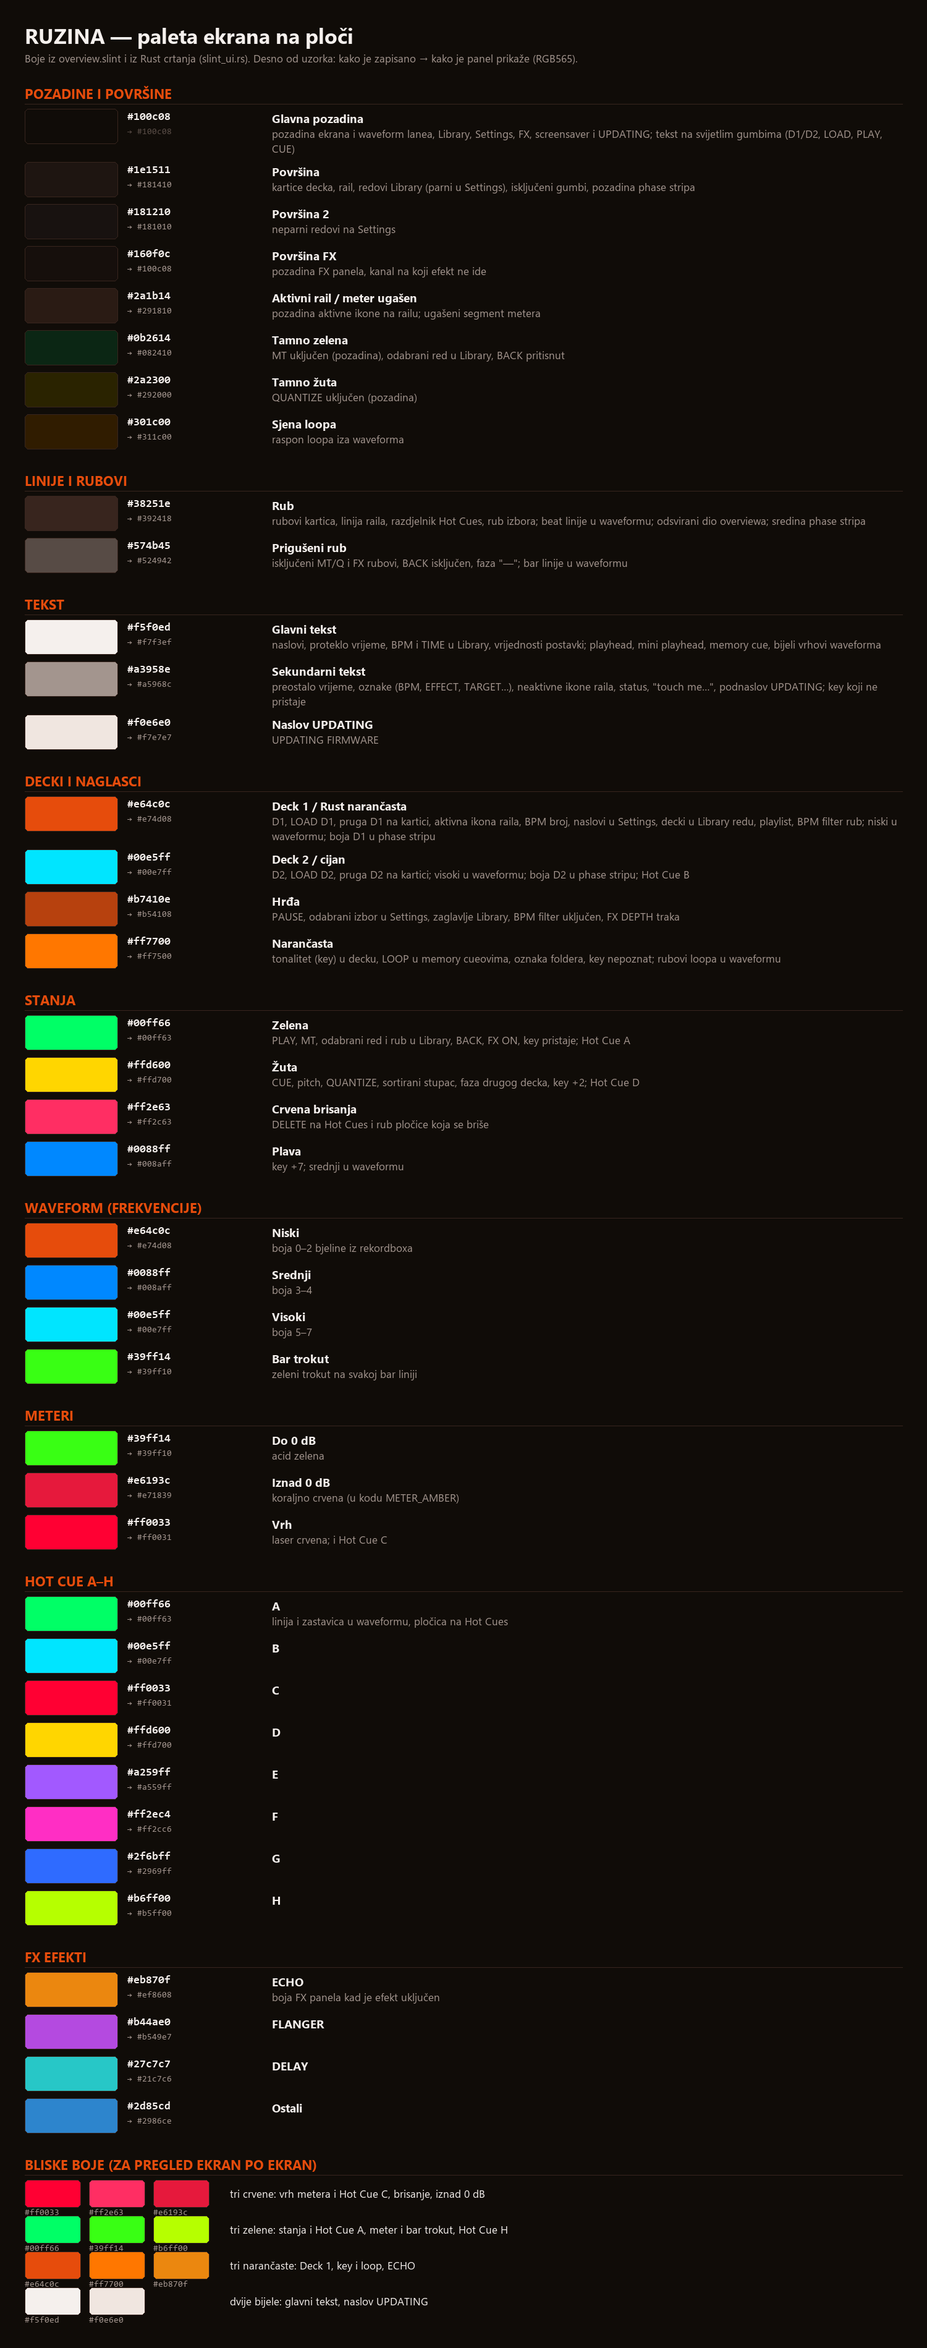
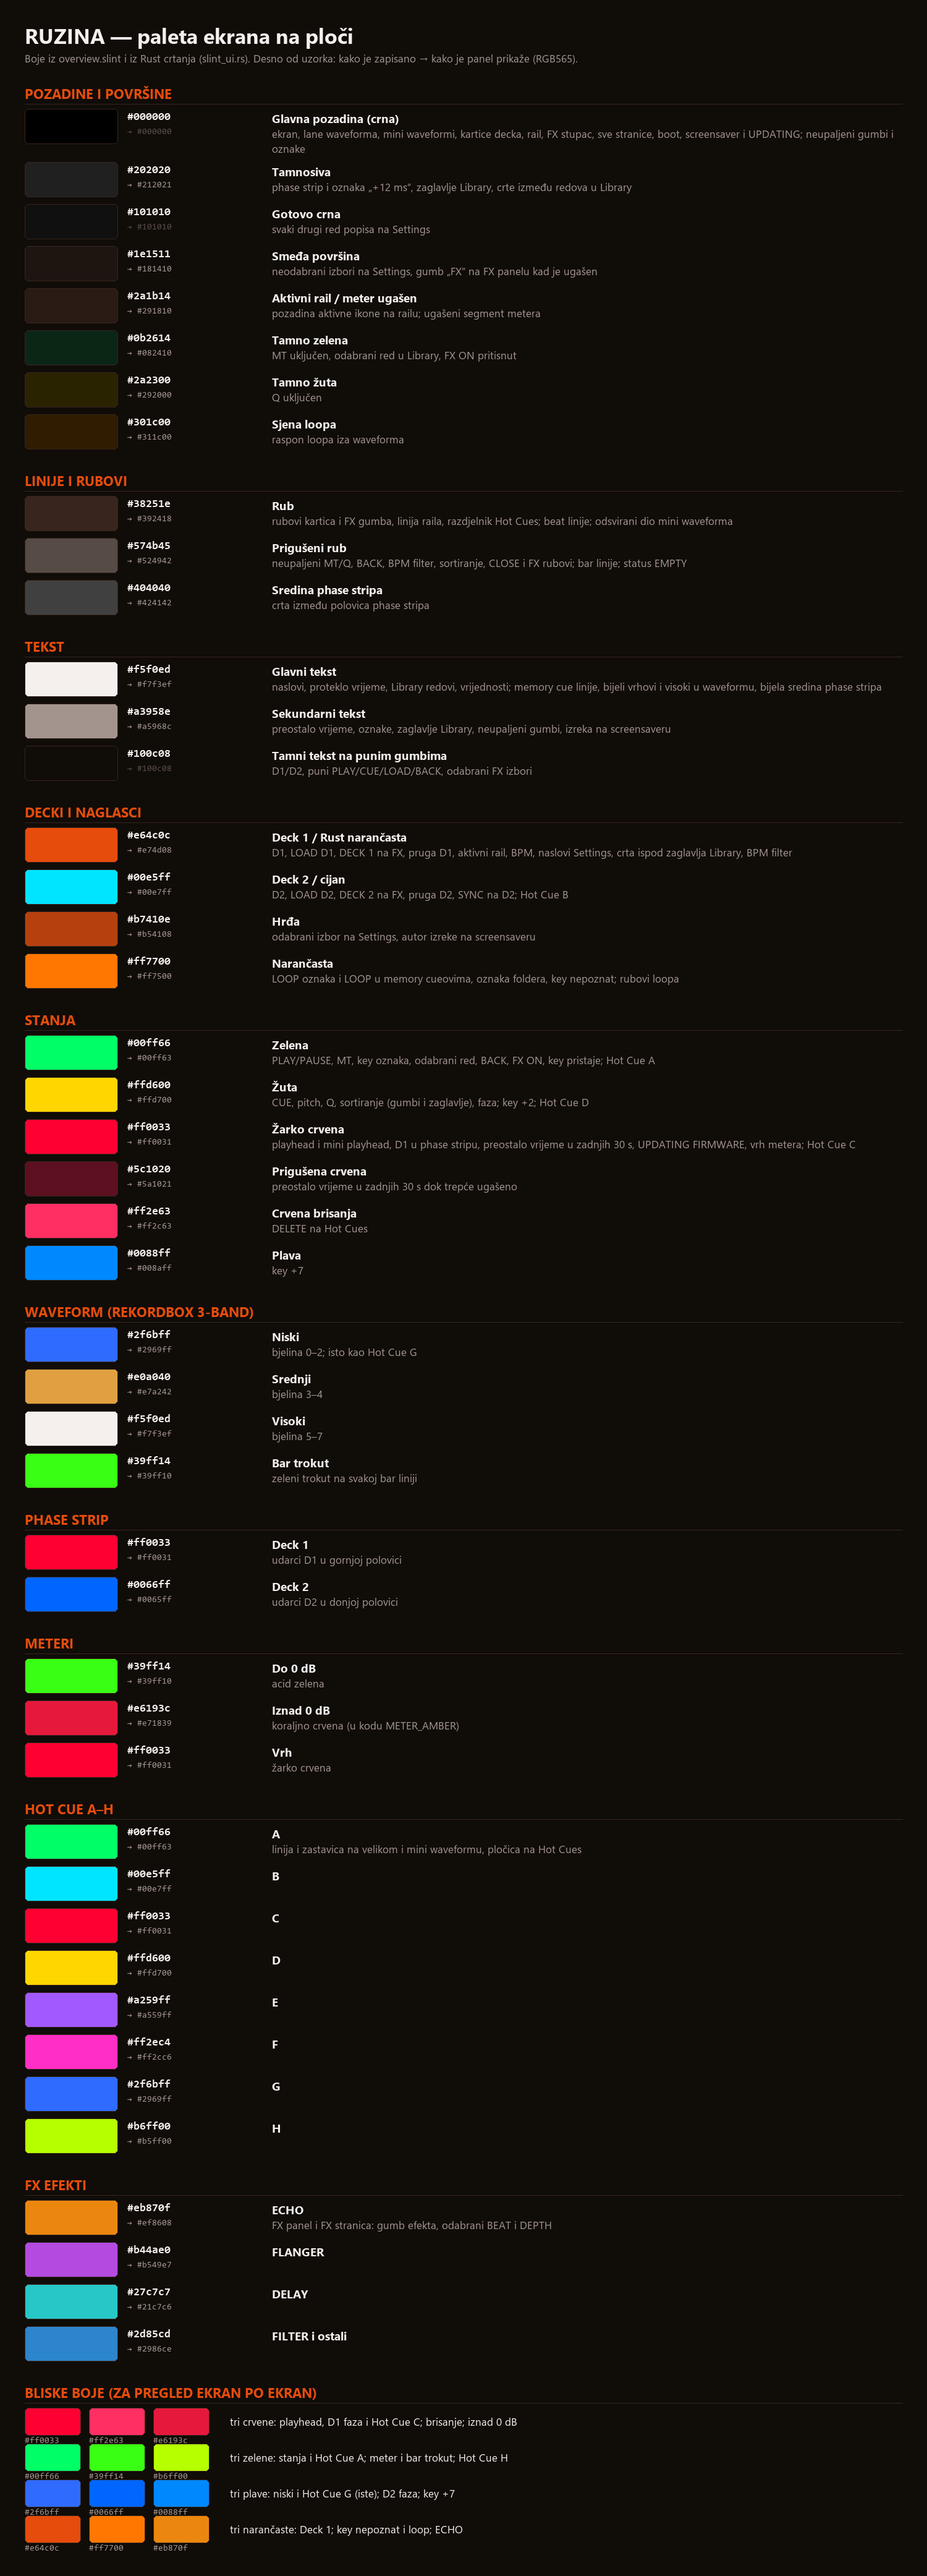
docs: the deck screen, page by page; the palette after the pass; s229

diff --git a/docs/palette/make_palette.py b/docs/palette/make_palette.py
@@ -22,52 +22,59 @@ LINE = '#38251e'
 INK = '#f5f0ed'
 MUTED = '#a3958e'
 
-# (group, [(hex, name, where)])
+# (group, [(hex, name, where)]) — as of the GUI pass, 2026-11-26 (s229).
 GROUPS = [
     ('Pozadine i površine', [
-        ('#100c08', 'Glavna pozadina', 'pozadina ekrana i waveform lanea, Library, Settings, FX, screensaver i UPDATING; tekst na svijetlim gumbima (D1/D2, LOAD, PLAY, CUE)'),
-        ('#1e1511', 'Površina', 'kartice decka, rail, redovi Library (parni u Settings), isključeni gumbi, pozadina phase stripa'),
-        ('#181210', 'Površina 2', 'neparni redovi na Settings'),
-        ('#160f0c', 'Površina FX', 'pozadina FX panela, kanal na koji efekt ne ide'),
+        ('#000000', 'Glavna pozadina (crna)', 'ekran, lane waveforma, mini waveformi, kartice decka, rail, FX stupac, sve stranice, boot, screensaver i UPDATING; neupaljeni gumbi i oznake'),
+        ('#202020', 'Tamnosiva', 'phase strip i oznaka „+12 ms”, zaglavlje Library, crte između redova u Library'),
+        ('#101010', 'Gotovo crna', 'svaki drugi red popisa na Settings'),
+        ('#1e1511', 'Smeđa površina', 'neodabrani izbori na Settings, gumb „FX” na FX panelu kad je ugašen'),
         ('#2a1b14', 'Aktivni rail / meter ugašen', 'pozadina aktivne ikone na railu; ugašeni segment metera'),
-        ('#0b2614', 'Tamno zelena', 'MT uključen (pozadina), odabrani red u Library, BACK pritisnut'),
-        ('#2a2300', 'Tamno žuta', 'QUANTIZE uključen (pozadina)'),
+        ('#0b2614', 'Tamno zelena', 'MT uključen, odabrani red u Library, FX ON pritisnut'),
+        ('#2a2300', 'Tamno žuta', 'Q uključen'),
         ('#301c00', 'Sjena loopa', 'raspon loopa iza waveforma'),
     ]),
     ('Linije i rubovi', [
-        ('#38251e', 'Rub', 'rubovi kartica, linija raila, razdjelnik Hot Cues, rub izbora; beat linije u waveformu; odsvirani dio overviewa; sredina phase stripa'),
-        ('#574b45', 'Prigušeni rub', 'isključeni MT/Q i FX rubovi, BACK isključen, faza "—"; bar linije u waveformu'),
+        ('#38251e', 'Rub', 'rubovi kartica i FX gumba, linija raila, razdjelnik Hot Cues; beat linije; odsvirani dio mini waveforma'),
+        ('#574b45', 'Prigušeni rub', 'neupaljeni MT/Q, BACK, BPM filter, sortiranje, CLOSE i FX rubovi; bar linije; status EMPTY'),
+        ('#404040', 'Sredina phase stripa', 'crta između polovica phase stripa'),
     ]),
     ('Tekst', [
-        ('#f5f0ed', 'Glavni tekst', 'naslovi, proteklo vrijeme, BPM i TIME u Library, vrijednosti postavki; playhead, mini playhead, memory cue, bijeli vrhovi waveforma'),
-        ('#a3958e', 'Sekundarni tekst', 'preostalo vrijeme, oznake (BPM, EFFECT, TARGET…), neaktivne ikone raila, status, "touch me…", podnaslov UPDATING; key koji ne pristaje'),
-        ('#f0e6e0', 'Naslov UPDATING', 'UPDATING FIRMWARE'),
+        ('#f5f0ed', 'Glavni tekst', 'naslovi, proteklo vrijeme, Library redovi, vrijednosti; memory cue linije, bijeli vrhovi i visoki u waveformu, bijela sredina phase stripa'),
+        ('#a3958e', 'Sekundarni tekst', 'preostalo vrijeme, oznake, zaglavlje Library, neupaljeni gumbi, izreka na screensaveru'),
+        ('#100c08', 'Tamni tekst na punim gumbima', 'D1/D2, puni PLAY/CUE/LOAD/BACK, odabrani FX izbori'),
     ]),
     ('Decki i naglasci', [
-        ('#e64c0c', 'Deck 1 / Rust narančasta', 'D1, LOAD D1, pruga D1 na kartici, aktivna ikona raila, BPM broj, naslovi u Settings, decki u Library redu, playlist, BPM filter rub; niski u waveformu; boja D1 u phase stripu'),
-        ('#00e5ff', 'Deck 2 / cijan', 'D2, LOAD D2, pruga D2 na kartici; visoki u waveformu; boja D2 u phase stripu; Hot Cue B'),
-        ('#b7410e', 'Hrđa', 'PAUSE, odabrani izbor u Settings, zaglavlje Library, BPM filter uključen, FX DEPTH traka'),
-        ('#ff7700', 'Narančasta', 'tonalitet (key) u decku, LOOP u memory cueovima, oznaka foldera, key nepoznat; rubovi loopa u waveformu'),
+        ('#e64c0c', 'Deck 1 / Rust narančasta', 'D1, LOAD D1, DECK 1 na FX, pruga D1, aktivni rail, BPM, naslovi Settings, crta ispod zaglavlja Library, BPM filter'),
+        ('#00e5ff', 'Deck 2 / cijan', 'D2, LOAD D2, DECK 2 na FX, pruga D2, SYNC na D2; Hot Cue B'),
+        ('#b7410e', 'Hrđa', 'odabrani izbor na Settings, autor izreke na screensaveru'),
+        ('#ff7700', 'Narančasta', 'LOOP oznaka i LOOP u memory cueovima, oznaka foldera, key nepoznat; rubovi loopa'),
     ]),
     ('Stanja', [
-        ('#00ff66', 'Zelena', 'PLAY, MT, odabrani red i rub u Library, BACK, FX ON, key pristaje; Hot Cue A'),
-        ('#ffd600', 'Žuta', 'CUE, pitch, QUANTIZE, sortirani stupac, faza drugog decka, key +2; Hot Cue D'),
-        ('#ff2e63', 'Crvena brisanja', 'DELETE na Hot Cues i rub pločice koja se briše'),
-        ('#0088ff', 'Plava', 'key +7; srednji u waveformu'),
+        ('#00ff66', 'Zelena', 'PLAY/PAUSE, MT, key oznaka, odabrani red, BACK, FX ON, key pristaje; Hot Cue A'),
+        ('#ffd600', 'Žuta', 'CUE, pitch, Q, sortiranje (gumbi i zaglavlje), faza; key +2; Hot Cue D'),
+        ('#ff0033', 'Žarko crvena', 'playhead i mini playhead, D1 u phase stripu, preostalo vrijeme u zadnjih 30 s, UPDATING FIRMWARE, vrh metera; Hot Cue C'),
+        ('#5c1020', 'Prigušena crvena', 'preostalo vrijeme u zadnjih 30 s dok trepće ugašeno'),
+        ('#ff2e63', 'Crvena brisanja', 'DELETE na Hot Cues'),
+        ('#0088ff', 'Plava', 'key +7'),
     ]),
-    ('Waveform (frekvencije)', [
-        ('#e64c0c', 'Niski', 'boja 0–2 bjeline iz rekordboxa'),
-        ('#0088ff', 'Srednji', 'boja 3–4'),
-        ('#00e5ff', 'Visoki', 'boja 5–7'),
+    ('Waveform (rekordbox 3-band)', [
+        ('#2f6bff', 'Niski', 'bjelina 0–2; isto kao Hot Cue G'),
+        ('#e0a040', 'Srednji', 'bjelina 3–4'),
+        ('#f5f0ed', 'Visoki', 'bjelina 5–7'),
         ('#39ff14', 'Bar trokut', 'zeleni trokut na svakoj bar liniji'),
+    ]),
+    ('Phase strip', [
+        ('#ff0033', 'Deck 1', 'udarci D1 u gornjoj polovici'),
+        ('#0066ff', 'Deck 2', 'udarci D2 u donjoj polovici'),
     ]),
     ('Meteri', [
         ('#39ff14', 'Do 0 dB', 'acid zelena'),
         ('#e6193c', 'Iznad 0 dB', 'koraljno crvena (u kodu METER_AMBER)'),
-        ('#ff0033', 'Vrh', 'laser crvena; i Hot Cue C'),
+        ('#ff0033', 'Vrh', 'žarko crvena'),
     ]),
     ('Hot Cue A–H', [
-        ('#00ff66', 'A', 'linija i zastavica u waveformu, pločica na Hot Cues'),
+        ('#00ff66', 'A', 'linija i zastavica na velikom i mini waveformu, pločica na Hot Cues'),
         ('#00e5ff', 'B', ''),
         ('#ff0033', 'C', ''),
         ('#ffd600', 'D', ''),
@@ -77,19 +84,19 @@ GROUPS = [
         ('#b6ff00', 'H', ''),
     ]),
     ('FX efekti', [
-        ('#eb870f', 'ECHO', 'boja FX panela kad je efekt uključen'),
+        ('#eb870f', 'ECHO', 'FX panel i FX stranica: gumb efekta, odabrani BEAT i DEPTH'),
         ('#b44ae0', 'FLANGER', ''),
         ('#27c7c7', 'DELAY', ''),
-        ('#2d85cd', 'Ostali', ''),
+        ('#2d85cd', 'FILTER i ostali', ''),
     ]),
 ]
 
-# Colours close enough to confuse, for the screen-by-screen pass.
+# Colours close enough to confuse, for later passes.
 NEAR = [
-    ('#ff0033', '#ff2e63', '#e6193c', 'tri crvene: vrh metera i Hot Cue C, brisanje, iznad 0 dB'),
-    ('#00ff66', '#39ff14', '#b6ff00', 'tri zelene: stanja i Hot Cue A, meter i bar trokut, Hot Cue H'),
-    ('#e64c0c', '#ff7700', '#eb870f', 'tri narančaste: Deck 1, key i loop, ECHO'),
-    ('#f5f0ed', '#f0e6e0', None, 'dvije bijele: glavni tekst, naslov UPDATING'),
+    ('#ff0033', '#ff2e63', '#e6193c', 'tri crvene: playhead, D1 faza i Hot Cue C; brisanje; iznad 0 dB'),
+    ('#00ff66', '#39ff14', '#b6ff00', 'tri zelene: stanja i Hot Cue A; meter i bar trokut; Hot Cue H'),
+    ('#2f6bff', '#0066ff', '#0088ff', 'tri plave: niski i Hot Cue G (iste); D2 faza; key +7'),
+    ('#e64c0c', '#ff7700', '#eb870f', 'tri narančaste: Deck 1; key nepoznat i loop; ECHO'),
 ]
 
 

diff --git a/docs/reviews/2026-11-26-gui-pass.md b/docs/reviews/2026-11-26-gui-pass.md
@@ -1,0 +1,137 @@
+# The deck screen, page by page
+
+Date: 2026-11-26. Branch: `ogranak/gui-pass`, from main `2f04d44`, after
+[firmware updates from the browser (#174)](2026-11-25-web-remote-ota.md).
+
+## How the pass was run
+
+The owner went through the board's screen one page at a time, the screensaver included:
+
+1. Each page was drawn on the PC as it was.
+2. The owner chose what to change.
+3. Each change went to the board as a play image through the Web Remote's firmware update.
+4. The next page followed only once the owner had checked the current one on the board.
+
+The images were s214 to s229.
+
+**Tools:**
+
+- **The palette** ([`docs/palette`](../palette/ruzina-screen-palette.png)):
+  - every colour the screen uses, with the elements it is on, for the page before the pass
+    and again after it;
+  - for each colour, the value written and the value the RGB565 panel shows;
+  - `make_palette.py` draws it.
+- **The pages on the PC** (`rust-core/examples/render_screens.rs`):
+  - it draws every page with the board's Slint renderer, fonts and images;
+  - what Rust draws itself (waveforms, meters, the phase strip) is left out of it, and was
+    sketched beside it for review.
+
+  Run it with:
+
+  ```sh
+  cargo run --example render_screens --features "idf-soak-autoplay idf-slint-ui" -- OUT
+  ```
+
+## What changed
+
+**Everywhere:**
+
+- The background is black (it was `#100C08`): the screen, the lanes and overviews, the deck
+  cards, the rail, the FX column and every page.
+- Thin borders keep the parts apart.
+
+**Screensaver and boot screen:**
+
+- The screensaver is on black.
+- RUZINA stands lit, and a soft band of the brightened word (`wordmark/word-shine.png`)
+  slides across it every 4 s. The boot screen has the same shine.
+- Under the word, one of three of the owner's sayings, a new one each minute.
+
+**UPDATING FIRMWARE** is in bright red.
+
+**Overview:**
+
+- **Waveform:** the waveforms are in rekordbox's 3-band colours (blue, gold, white), with a
+  red playhead.
+- **Lanes and overviews:**
+  - the lanes are 200 pixels high, at x 129, so their playhead falls on the middle of the
+    gap between the deck cards;
+  - on this page the deck cards are taller, with 80-pixel overviews;
+  - the overviews show the Hot Cues as lines with flags.
+- **Phase strip:** dark grey (`#202020`), with deck 1's beats in bright red, deck 2's in
+  bright blue, and a white middle.
+- **Buttons:**
+  - PLAY and CUE are 50 pixels high: filled when on, an outline when not;
+  - MT and Q are 44 by 34;
+  - the covers are as wide as the buttons.
+- **The time row:**
+  - it is spaced out, with the time left and the BPM larger;
+  - the time left blinks red in a track's last 30 s;
+  - the key is in green above Q;
+  - the deck's state (SYNC, LOOP, EMPTY) is a tag beside the title.
+
+**Library:**
+
+- **Rows:** on black, ten rows of 42 pixels with larger text, so a page is ten rows.
+- **Headings:** on dark grey, with a rust line under them.
+- **Right column:** from the top, LOAD D1 and D2 (the same size), BACK and the BPM filter,
+  in the outline style.
+- **Sorting:** new TRACK, ARTIST and BPM buttons sort as the headings do. A second tap turns
+  the order over.
+- **TIME column:** it is wider, so a time such as 10:24 is no longer cut.
+
+**Hot Cues:** empty pads, MEMORY, DELETE and the memory list are on black.
+
+**FX:**
+
+- **Colour:** the effect's colour runs through the page: its button, the beat chosen and the
+  depth.
+- **Effect buttons:** each effect is outlined in its own colour.
+- **Channels:** in the decks' colours.
+- **FX ON:** a green outline when off, filled when on.
+
+**Settings:** black backgrounds only; its buttons are as they were.
+
+## A screen that stood still
+
+**What happened:** on s214 the screen stood still when the screensaver came on, and on s215d
+at boot. Audio, USB and the Web Remote went on.
+
+**What s215d showed:** it logged the screen task's step and its PPA copies. The task was
+waiting in a copy that never ended: 58 begun, 57 done. That copy was 134 by 112 pixels,
+under the shine.
+
+**The causes:**
+
+- The screen waited for every PPA copy in the driver's blocking mode, without a limit.
+- The shine asked for a small copy at every refresh.
+
+**The fixes:**
+
+- **Covers:** the boot screen, the screensaver and UPDATING FIRMWARE are drawn by the CPU.
+  No deck plays under them.
+- **Every PPA copy** (`display_touch.c`):
+  - copies now run in the driver's non-blocking mode, waited for on our own semaphore for up
+    to 50 ms;
+  - a copy that does not end leaves the PPA to it, logs `ppa stuck=1`, and from then on the
+    CPU draws, as it already did when a copy failed;
+  - on s218d the shine's copies ran through the PPA this way for 4 minutes without one
+    stuck.
+
+## Tests and checks
+
+- **Host and target checks:** `ci_host.sh` and target clippy pass.
+- **The images:** each was built and sent to the board through the Web Remote.
+- **The owner's checks:** the owner checked every page on the board:
+  - the screensaver: "izgleda da je sve ok";
+  - the overview: "Overview je gotov";
+  - the Library: "Gotov je";
+  - the rest: "Sve je gotovo".
+- **On s216d and s218d:** the screensaver ran with 0/0 underruns and fills of at most 2.2 ms.
+- **Not measured** on the pages' final images: fills and underruns during play.
+
+## Not covered
+
+- **Settings:** its buttons keep their old colours (the owner: "samo crna pozadina za sad").
+- **Colours that are close:** the palette lists them. The lows and Hot Cue G are the same
+  blue.

diff --git a/docs/DEVELOPMENT_STATUS.md b/docs/DEVELOPMENT_STATUS.md
@@ -5,14 +5,16 @@ documents link here.
 
 ## The board's images
 
-- **On the board:** s213 (app `95f00c31…`, version `s213`), in slot ota_1. Its firmware
-  is `ogranak/web-remote-ota`: main `2a68ea8` (#173) with
-  [firmware updates from the browser](reviews/2026-11-25-web-remote-ota.md), the
-  UPDATING FIRMWARE screen and the panel's interrupt running while flash is written. It
-  is the play image recipe, less `--soak-autoplay`, with `--version s213`. It reached the
-  deck from the Web Remote, as a signed bundle. On it the screen held still through an
-  update ("ne blica!").
+- **On the board:** s229 (app `f57f5908…`, version `s229`), in slot ota_0. Its firmware
+  is `ogranak/gui-pass`: main `2f04d44` (#174) with
+  [the deck screen, page by page](reviews/2026-11-26-gui-pass.md). It is the play image
+  recipe, less `--soak-autoplay`, with `--version s229`, sent from the Web Remote. The
+  owner checked every page on it ("Sve je gotovo"); fills during play were not measured.
 - **Before it:**
+  - s214 to s228, the GUI pass's steps; s215d, s216d and s218d were diagnostic images
+    (the screen standing still under the screensaver's shine, and the PPA's time limit).
+  - s213 (app `95f00c31…`), the play image of #174. On it the screen held still through
+    an update ("ne blica!").
   - s212 (app `28728a57…`) and s211 (app `a1f398fa…`), the same branch before the
     screen's fixes, sent from the Web Remote.
   - s210 (app `0d976bb1…`), the same firmware: the first image with two app slots, flashed
